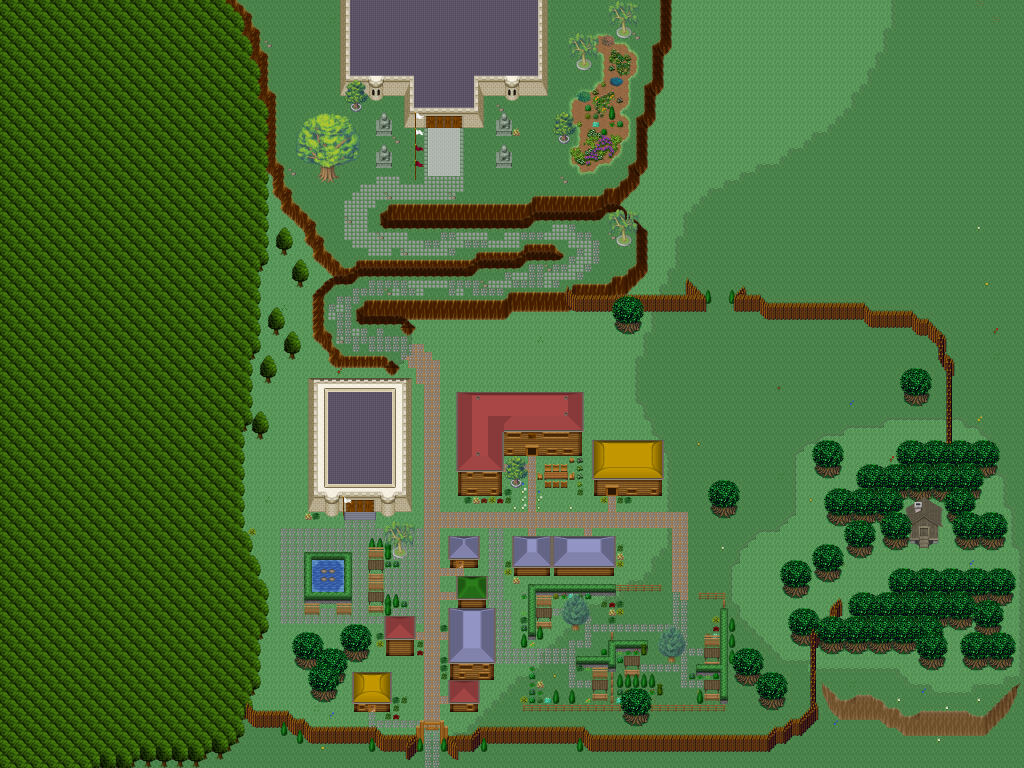
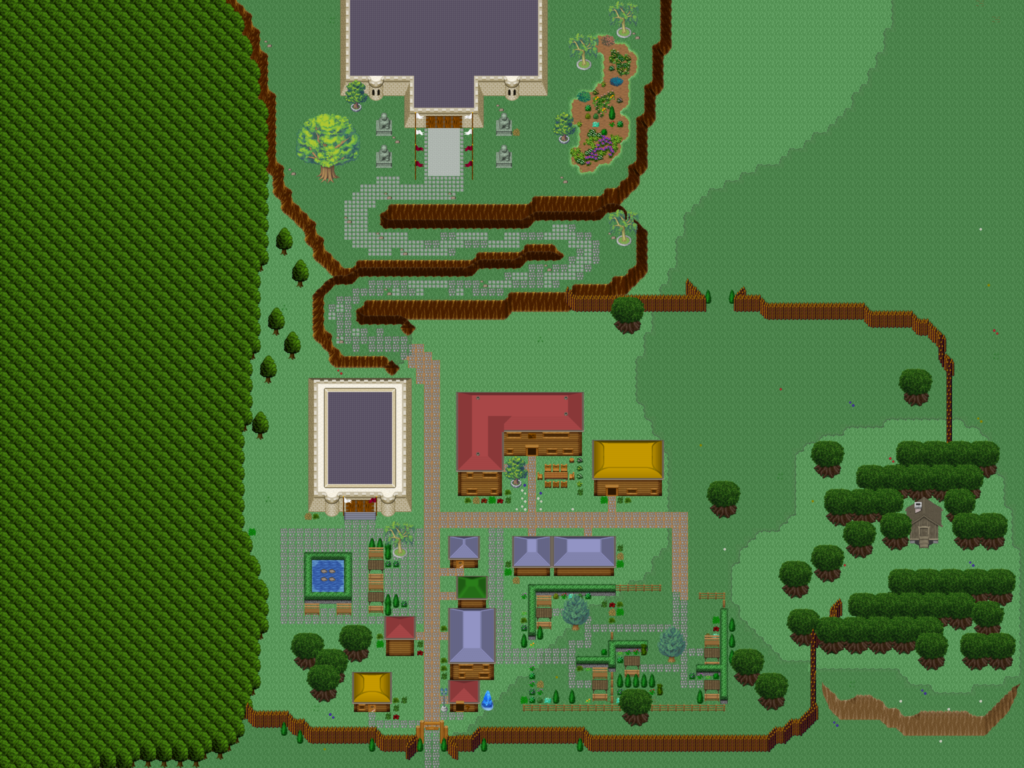
feat(tarnow): give affix transformation its own enchanter workshop

diff --git a/src/js/css/main.css b/src/js/css/main.css
@@ -2784,7 +2784,7 @@ td.number {
 	.advent-calendar-door.is-open .advent-calendar-leaf { width: 7px; }
 }
 
-/* Zoryk: one paid affix roll, with a server-owned comparison offer. */
+/* Przemir: one paid affix roll, with a server-owned comparison offer. */
 .affix-reroll-dialog {
 	box-sizing: border-box; width: 660px; max-width: calc(100vw - 32px);
 	max-height: calc(100dvh - 88px); overflow: auto; padding: 12px;
@@ -2832,7 +2832,7 @@ td.number {
 	.affix-reroll-dialog .affix-reroll-comparison { grid-template-columns: repeat(2, minmax(0, 1fr)); }
 }
 
-/* The same native-size marker is used in tooltips and Zoryk's workbench. */
+/* The same native-size marker is used in tooltips and Przemir's workbench. */
 .affix-rerolled-icon {
 	display: inline-block; width: 12px; height: 12px; margin-right: 4px;
 	vertical-align: -2px; background: url(/data/gui/affix_rerolled.png) no-repeat center;

diff --git a/src/js/stendhal/ui/dialog/affix-reroll-dialog.test.js b/src/js/stendhal/ui/dialog/affix-reroll-dialog.test.js
@@ -98,7 +98,7 @@ function choose(h) {
 test("selection distinguishes duplicate names, displays sprites/rarity/upgrades and only uses server affixes", () => {
 	const h = harness(), d = h.open();
 	assert.equal(h.frames[0].responsiveWidth, true);
-	assert.equal(h.frames[0].title, "Zoryk — przemiana afiksów");
+	assert.equal(h.frames[0].title, "Przemir — przemiana afiksów");
 	assert.equal(d.items.children[0].children[1].children[0].textContent, "miecz +2");
 	assert.equal(d.items.children[1].children[1].children[1].textContent, "Epicki · #2");
 	assert.match(d.items.children[0].children[0].style.backgroundImage, /items\/sword\/broadsword.png/);

diff --git a/src/js/stendhal/ui/dialog/AffixRerollDialog.ts b/src/js/stendhal/ui/dialog/AffixRerollDialog.ts
@@ -108,7 +108,7 @@ export class AffixRerollDialog extends DialogContentComponent {
 			seen.add(windowId);
 			this.active?.close();
 			const dialog = new AffixRerollDialog(windowId, String(data.npc_id));
-			const frame = new FloatingWindow(text("Zoryk — przemiana afiksów"), dialog, 24, 24);
+			const frame = new FloatingWindow(text("Przemir — przemiana afiksów"), dialog, 24, 24);
 			frame.setResponsiveWidth(true);
 			frame.setId("affix-reroll");
 			dialog.setFrame(frame);

diff --git a/tests/games/stendhal/server/actions/AffixRerollActionTest.java b/tests/games/stendhal/server/actions/AffixRerollActionTest.java
@@ -32,6 +32,7 @@ import games.stendhal.server.events.AffixRerollEvent;
 import games.stendhal.server.events.ItemUpgradeEvent;
 import games.stendhal.server.maps.MockStendlRPWorld;
 import games.stendhal.server.maps.tarnow.city.RuneMasterNPC;
+import games.stendhal.server.maps.tarnow.enchanter.EnchanterNPC;
 import marauroa.common.game.DetailLevel;
 import marauroa.common.game.RPAction;
 import marauroa.common.game.RPClass;
@@ -55,13 +56,13 @@ public class AffixRerollActionTest {
 	}
 
 	@Before public void setup() {
-		SingletonRepository.getNPCList().remove("Zoryk Runiczny");
+		SingletonRepository.getNPCList().remove(EnchanterNPC.NAME);
 		final StendhalRPZone zone = new StendhalRPZone("reroll_action_test", 128, 128);
 		MockStendlRPWorld.get().addRPZone(zone);
-		new RuneMasterNPC().configureZone(zone, Collections.emptyMap());
-		npc = SingletonRepository.getNPCList().get("Zoryk Runiczny");
-		player = PlayerTestHelper.createPlayer("zoryk_customer"); player.setLanguage("pl");
-		player.setPosition(60, 17); zone.add(player);
+		new EnchanterNPC().configureZone(zone, Collections.emptyMap());
+		npc = SingletonRepository.getNPCList().get(EnchanterNPC.NAME);
+		player = PlayerTestHelper.createPlayer("przemir_customer"); player.setLanguage("pl");
+		player.setPosition(8, 7); zone.add(player);
 		item = SingletonRepository.getEntityManager().getItem("ciupaga"); item.setRarity(ItemRarity.RARE);
 		final ItemAffixDefinition affix = ItemAffixRegistry.getInstance().get("accuracy_bonus");
 		assertTrue(affix.apply(item, new Random(4))); ItemAffixState.record(item, affix);
@@ -70,12 +71,15 @@ public class AffixRerollActionTest {
 		stone.setQuantity(2); assertTrue(player.equipToInventoryOnly(stone));
 	}
 
-	@After public void cleanup() { SingletonRepository.getNPCList().remove("Zoryk Runiczny"); }
+	@After public void cleanup() {
+		SingletonRepository.getNPCList().remove(EnchanterNPC.NAME);
+		SingletonRepository.getNPCList().remove("Zoryk Runiczny");
+	}
 
 	private RPEvent latest() {
 		RPEvent result = null;
 		for (final RPEvent event : player.events()) if (Events.AFFIX_REROLL.equals(event.getName())) result = event;
-		assertNotNull("Zoryk must send a calendar-independent service event", result);
+		assertNotNull("Przemir must send a calendar-independent service event", result);
 		return result;
 	}
 
@@ -94,13 +98,42 @@ public class AffixRerollActionTest {
 		return latest();
 	}
 
-	@Test public void zorykUnderstandsTheVisibleDialogueKeywordAndItsInflection() {
-		for (final String keyword : new String[] {"przemiana", "przemianę"}) {
-			npc.getEngine().stepTest(player, "hi"); npc.getEngine().stepTest(player, keyword);
+	@Test public void glyphMasterCannotOpenTheAffixService() {
+		final StendhalRPZone zone = player.getZone();
+		SingletonRepository.getNPCList().remove("Zoryk Runiczny");
+		new RuneMasterNPC().configureZone(zone, Collections.emptyMap());
+		final SpeakerNPC glyphMaster = SingletonRepository.getNPCList().get("Zoryk Runiczny");
+		player.setPosition(60, 17);
+		int before = 0;
+		for (final RPEvent event : player.events()) if (Events.AFFIX_REROLL.equals(event.getName())) before++;
+		AffixRerollAction.open(player, glyphMaster);
+		glyphMaster.getEngine().stepTest(player, "hi"); utilities.SpeakerNPCTestHelper.getReply(glyphMaster);
+		glyphMaster.getEngine().stepTest(player, "przemiana");
+		assertTrue(utilities.SpeakerNPCTestHelper.getReply(glyphMaster).contains("Przemir Zaklinacz"));
+		int after = 0;
+		for (final RPEvent event : player.events()) if (Events.AFFIX_REROLL.equals(event.getName())) after++;
+		assertEquals(before, after);
+	}
+
+	@Test public void przemirUnderstandsTheVisibleDialogueKeywordAndItsInflection() {
+		for (final String[] choice : new String[][] {{"pl", "przemiana"}, {"pl", "przemianę"}, {"en", "transformation"}, {"es", "transformación"}}) {
+			player.setLanguage(choice[0]);
+			npc.getEngine().stepTest(player, "hi"); npc.getEngine().stepTest(player, choice[1]);
 			assertEquals("open", latest().get("phase"));
 			assertEquals(npc.getID().getObjectID(), latest().getInt("npc_id"));
 			npc.getEngine().stepTest(player, "bye");
 		}
+	}
+
+	@Test public void enchanterExplainsPaymentAndThePermanentChoiceInPlainLanguage() {
+		npc.getEngine().stepTest(player, "hi"); utilities.SpeakerNPCTestHelper.getReply(npc);
+		npc.getEngine().stepTest(player, "kamień");
+		final String stones = utilities.SpeakerNPCTestHelper.getReply(npc);
+		assertTrue(stones, stones.contains("jeden kamień") && stones.contains("za trzy"));
+		npc.getEngine().stepTest(player, "zasady");
+		final String rules = utilities.SpeakerNPCTestHelper.getReply(npc);
+		assertTrue(rules, rules.contains("tylko ta jedna właściwość"));
+		assertTrue(rules, rules.contains("kamienie przepadną w obu przypadkach"));
 	}
 
 	@Test public void legendaryQuotesAndOffersPublishTheThreeStonePrice() {

diff --git a/src/games/stendhal/server/maps/tarnow/enchanter/EnchanterNPC.java b/src/games/stendhal/server/maps/tarnow/enchanter/EnchanterNPC.java
@@ -1,0 +1,52 @@
+/* Copyright (C) 2026 - PolanieOnLine; GPL version 2 or later. */
+package games.stendhal.server.maps.tarnow.enchanter;
+
+import java.util.Arrays;
+import java.util.Map;
+
+import games.stendhal.common.Direction;
+import games.stendhal.server.actions.AffixRerollAction;
+import games.stendhal.server.core.config.ZoneConfigurator;
+import games.stendhal.server.core.engine.StendhalRPZone;
+import games.stendhal.server.entity.npc.ConversationStates;
+import games.stendhal.server.entity.npc.SpeakerNPC;
+
+/** Przemir's craft is changing equipment affixes, separate from Zoryk's glyphs. */
+public final class EnchanterNPC implements ZoneConfigurator {
+	public static final String NAME = "Przemir Zaklinacz";
+	public static final String ZONE = "int_tarnow_enchanter_workshop";
+	public static final int X = 8;
+	public static final int Y = 5;
+
+	@Override
+	public void configureZone(final StendhalRPZone zone, final Map<String, String> attributes) {
+		final SpeakerNPC npc = new SpeakerNPC(NAME) {
+			@Override
+			protected void createDialog() {
+				addGreeting("Witaj w mojej pracowni. Szukasz innej mocy dla swojego wyposażenia? Zapytaj o #przemianę.");
+				addJob("Jestem zaklinaczem. Odkrywam moc ukrytą w broni, pancerzach i ozdobach. Kamienie przemiany pozwalają mi nadać jednej z ich właściwości nową postać.");
+				addHelp("Przynieś wyposażenie z magicznymi właściwościami i kamienie przemiany. Powiedz #przemiana, a wspólnie obejrzymy, co można zmienić. Jeśli robisz to po raz pierwszy, zapytaj o #zasady.");
+				addOffer("Mogę przeprowadzić #przemianę jednej właściwości twojego wyposażenia. Zwykły afiks wymaga jednego kamienia przemiany, a legendarny trzech. Przed próbą możesz poznać #zasady.");
+				addGoodbye("Niech twój oręż dobrze ci służy.");
+				add(ConversationStates.ATTENDING, Arrays.asList("przemiana", "przemianę", "przemiane", "przemianą", "zmiana afiksu", "afiks", "afiksy", "affix", "reroll", "transformation", "transformación"),
+						null, ConversationStates.ATTENDING, null,
+						(player, sentence, raiser) -> AffixRerollAction.open(player, this));
+				add(ConversationStates.ATTENDING, Arrays.asList("zasady", "zasadach", "rules", "reglas"),
+						null, ConversationStates.ATTENDING,
+						"Najpierw wskażesz przedmiot i właściwość, którą chcesz zmienić. Potem zużyję kamienie, by wydobyć nową moc. Możesz ją przyjąć albo zachować dotychczasową, ale kamienie przepadną w obu przypadkach. Od pierwszej próby tylko ta jedna właściwość będzie mogła podlegać dalszym przemianom. Reszta pozostanie taka jak wcześniej.", null);
+				add(ConversationStates.ATTENDING, Arrays.asList("kamienie", "kamień", "kamien", "stones", "piedras"),
+						null, ConversationStates.ATTENDING,
+						"Kamienie przemiany bywają nagrodą podczas szczególnych wydarzeń w naszej krainie. Zwykły afiks zmienię za jeden kamień, a legendarny za trzy. Nawet jeśli zachowasz dawną moc, kamienie zostaną zużyte.", null);
+				add(ConversationStates.ATTENDING, Arrays.asList("glif", "glify", "glyph", "glyphs", "glifos"),
+						null, ConversationStates.ATTENDING,
+						"O glifach najlepiej porozmawiać z Zorykiem Runicznym. Znajdziesz go przy północnej świątyni w Tarnowie, obok stołu runicznego.", null);
+			}
+		};
+		npc.setDescription("Oto Przemir Zaklinacz. Ogląda oręż pod światło, jakby szukał w nim czegoś ukrytego.");
+		npc.setEntityClass("wizardnpc");
+		npc.setGender("M");
+		npc.setPosition(X, Y);
+		npc.setDirection(Direction.DOWN);
+		zone.add(npc);
+	}
+}

diff --git a/tests/games/stendhal/server/maps/tarnow/enchanter/EnchanterWorkshopTest.java b/tests/games/stendhal/server/maps/tarnow/enchanter/EnchanterWorkshopTest.java
@@ -1,0 +1,57 @@
+/* Copyright (C) 2026 - PolanieOnLine; GPL version 2 or later. */
+package games.stendhal.server.maps.tarnow.enchanter;
+
+import static org.junit.Assert.*;
+import java.util.Collections;
+import javax.xml.parsers.DocumentBuilderFactory;
+import org.junit.*;
+import org.w3c.dom.*;
+import games.stendhal.server.core.config.zone.TMXLoader;
+import games.stendhal.server.core.config.zone.PortalSetupXMLReader;
+import games.stendhal.server.core.engine.StendhalRPZone;
+import games.stendhal.server.core.engine.SingletonRepository;
+import games.stendhal.server.entity.mapstuff.portal.Portal;
+import games.stendhal.server.entity.player.Player;
+import games.stendhal.server.maps.MockStendlRPWorld;
+import utilities.PlayerTestHelper;
+import utilities.QuestHelper;
+
+/** Loads the real maps and portal descriptors through the game engine. */
+public class EnchanterWorkshopTest {
+	@BeforeClass public static void initialize() throws Exception { QuestHelper.setUpBeforeClass(); }
+
+	@Test public void configuredDoorAllowsEnteringAndLeavingWithoutLandingOnAPortal() throws Exception {
+		final StendhalRPZone city = load("0_tarnow_city", "data/maps/Level 0/tarnow/city.tmx");
+		final StendhalRPZone room = load(EnchanterNPC.ZONE, "data/maps/interiors/tarnow/enchanter_workshop.tmx");
+		final DocumentBuilderFactory factory = DocumentBuilderFactory.newInstance(); factory.setNamespaceAware(true);
+		final NodeList portals = factory.newDocumentBuilder().parse(getClass().getResourceAsStream("/data/conf/zones/pol/tarnow.xml")).getElementsByTagNameNS("*", "portal");
+		for (int i = 0; i < portals.getLength(); i++) {
+			final Element element = (Element) portals.item(i);
+			if ("enchanter_workshop_entrance".equals(element.getAttribute("ref"))) new PortalSetupXMLReader().read(element).setup(city);
+			if ("enchanter_workshop_exit".equals(element.getAttribute("ref"))) new PortalSetupXMLReader().read(element).setup(room);
+		}
+		SingletonRepository.getNPCList().remove(EnchanterNPC.NAME);
+		new EnchanterNPC().configureZone(room, Collections.emptyMap());
+		final Player player = PlayerTestHelper.createPlayer("workshop_visitor"); city.add(player); player.setPosition(57, 89);
+		final Portal entrance = city.getPortal("enchanter_workshop_entrance");
+		final Portal exit = room.getPortal("enchanter_workshop_exit");
+		assertNotNull(entrance); assertNotNull(exit);
+		assertTrue(entrance.onUsed(player)); assertSame(room, player.getZone());
+		assertEquals(8, player.getX()); assertEquals(11, player.getY());
+		assertTrue(exit.onUsed(player)); assertSame(city, player.getZone());
+		assertEquals(57, player.getX()); assertEquals(89, player.getY());
+		SingletonRepository.getNPCList().remove(EnchanterNPC.NAME);
+	}
+
+	@Test public void minimapUsesTheWorkshopName() {
+		final StendhalRPZone zone = new StendhalRPZone(EnchanterNPC.ZONE);
+		assertEquals("Pracownia Przemira w Tarnowie", zone.getAttributes().get("readable_name"));
+	}
+
+	private StendhalRPZone load(final String id, final String map) throws Exception {
+		final StendhalRPZone zone = new StendhalRPZone(id);
+		zone.addCollisionLayer(id + ".collision", TMXLoader.load(map).getLayer("collision"));
+		MockStendlRPWorld.get().addRPZone(zone);
+		return zone;
+	}
+}

diff --git a/src/games/stendhal/server/maps/tarnow/city/RuneMasterNPC.java b/src/games/stendhal/server/maps/tarnow/city/RuneMasterNPC.java
@@ -43,7 +43,6 @@ import games.stendhal.server.entity.npc.condition.NotCondition;
 import games.stendhal.server.entity.npc.condition.QuestInStateCondition;
 import games.stendhal.server.entity.npc.condition.QuestNotInStateCondition;
 import games.stendhal.server.entity.player.Player;
-import games.stendhal.server.actions.AffixRerollAction;
 
 /**
  * @author KarajuSs
@@ -83,13 +82,13 @@ public class RuneMasterNPC implements ZoneConfigurator {
 			protected void createDialog() {
 				add(ConversationStates.ATTENDING, Arrays.asList("przemiana", "przemianę", "przemiane", "kamień przemiany", "kamien przemiany", "zmiana afiksu", "affix", "reroll", "transformation", "transformación"),
 						null, ConversationStates.ATTENDING, null,
-						(player, sentence, raiser) -> AffixRerollAction.open(player, this));
+						(player, sentence, raiser) -> raiser.say(text(player, "Przemianą właściwości wyposażenia zajmuje się Przemir Zaklinacz. Ma pracownię w małym domu z czerwonym dachem na południu Tarnowa. Szukaj szyldu i niebieskich kryształów przy wejściu.")));
                 add(ConversationStates.ATTENDING, Arrays.asList("ulepsz", "ulepszenie", "ulepszanie", "upgrade", "mejorar", "stół", "stół runiczny", "stole runicznym", "runic workbench", "mesa rúnica"),
                         null, ConversationStates.ATTENDING, null, (player, sentence, raiser) ->
                         raiser.say(text(player, "Podejdź do stołu runicznego obok mnie i kliknij go. W oknie wybierzesz glif, zobaczysz zmianę jego mocy oraz koszt ulepszenia.")));
 				addGreeting("Witaj, poszukiwaczu starożytnej mocy! Czy szukasz tajemnicy run?");
 				addJob("Jestem strażnikiem starożytnej sztuki runicznej. Potrafię nasycać odzyskane matryce glifów nową mocą. Omar, pustynny poszukiwacz reliktów, bada miejsca, w których zachowały się takie nośniki. Możesz zapytać mnie o #listę glifów.");
-				addOffer("Jeżeli przyniesiesz czysty fragment glifu, czyli nośnik odtworzony z dawnej matrycy, oraz odpowiednie składniki, mogę nadać mu nowy znak. Zapytaj o #listę glifów, aby zobaczyć, jakie znam wzory. Gotowe glify rozwiniesz przy #'stole runicznym' obok mnie. Jeśli masz kamień przemiany, zapytaj o #przemianę — pomogę ci zmienić jeden afiks wyposażenia.");
+				addOffer("Jeżeli przyniesiesz czysty fragment glifu, czyli nośnik odtworzony z dawnej matrycy, oraz odpowiednie składniki, mogę nadać mu nowy znak. Zapytaj o #listę glifów, aby zobaczyć, jakie znam wzory. Gotowe glify rozwiniesz przy #'stole runicznym' obok mnie.");
 				addGoodbye("Powodzenia w zdobywaniu glifów, młody poszukiwaczu mocy!");
 
 				String allGlyphNames = glyphManager.getAllGlyphs().stream()

diff --git a/src/games/stendhal/server/actions/AffixRerollAction.java b/src/games/stendhal/server/actions/AffixRerollAction.java
@@ -14,9 +14,10 @@ import games.stendhal.server.entity.npc.SpeakerNPC;
 import games.stendhal.server.entity.player.Player;
 import games.stendhal.server.events.AffixRerollEvent;
 import games.stendhal.server.util.EntityHelper;
+import games.stendhal.server.maps.tarnow.enchanter.EnchanterNPC;
 import marauroa.common.game.RPAction;
 
-/** Correlates requests with the exact Zoryk instance which opened the window. */
+/** Correlates requests with the exact enchanter instance which opened the window. */
 public final class AffixRerollAction implements ActionListener {
 	private static final ItemAffixRerollService SERVICE = ItemAffixRerollService.getInstance();
 	private static final Map<Player, Window> WINDOWS = new WeakHashMap<Player, Window>();
@@ -24,7 +25,7 @@ public final class AffixRerollAction implements ActionListener {
 	public static void register() { CommandCenter.register("affix_reroll_action", new AffixRerollAction()); }
 
 	public static void open(final Player player, final SpeakerNPC npc) {
-		if (npc != NPCList.get().get("Zoryk Runiczny") || !near(player, npc)) return;
+		if (npc != NPCList.get().get(EnchanterNPC.NAME) || !near(player, npc)) return;
 		final Window window = new Window(npc);
 		WINDOWS.put(player, window);
 		SERVICE.clearSelection(player);
@@ -84,7 +85,7 @@ public final class AffixRerollAction implements ActionListener {
 	}
 
 	private static boolean resolve(final Player player, final RPAction action, final Window window) {
-		if (!near(player, window.npc) || window.npc != NPCList.get().get("Zoryk Runiczny")) return false;
+		if (!near(player, window.npc) || window.npc != NPCList.get().get(EnchanterNPC.NAME)) return false;
 		try {
 			final Entity entity = EntityHelper.entityFromZoneByID(action.getInt("npc_id"), player.getZone());
 			return entity == window.npc;

diff --git a/src/games/stendhal/client/gui/AffixRerollDialog.java b/src/games/stendhal/client/gui/AffixRerollDialog.java
@@ -40,7 +40,7 @@ import marauroa.common.game.RPAction;
 import marauroa.common.game.RPEvent;
 import marauroa.common.game.RPObject;
 
-/** Modeless Zoryk service. Only server-authorized items and affixes can be selected. */
+/** Modeless affix transformation service. Only server-authorized items and affixes can be selected. */
 public final class AffixRerollDialog extends JDialog {
 	private static final long serialVersionUID = 1L;
 	private static final Set<String> openedWindows = new HashSet<>();
@@ -75,7 +75,7 @@ public final class AffixRerollDialog extends JDialog {
 	private long sentAt;
 
 	private AffixRerollDialog(final Frame parent, final RPObject owner, final RPEvent event) {
-		super(parent, text("Zoryk — przemiana afiksów"), false);
+		super(parent, text("Przemir — przemiana afiksów"), false);
 		this.owner = owner;
 		correlation = new Correlation(value(event, "window_id"), value(event, "npc_id"));
 		setDefaultCloseOperation(DISPOSE_ON_CLOSE);

diff --git a/src/games/stendhal/server/events/AffixRerollEvent.java b/src/games/stendhal/server/events/AffixRerollEvent.java
@@ -98,7 +98,7 @@ public final class AffixRerollEvent extends RPEvent {
 		case "ACCEPTED": return "Przyjęto nową właściwość.";
 		case "KEPT": return "Zachowano poprzednią właściwość.";
 		case "MISSING_STONE": return "Nie masz dość kamieni przemiany. Zwykły afiks wymaga 1, a legendarny 3 kamieni.";
-		case "NPC_TOO_FAR": return "Podejdź do Zoryka Runicznego.";
+		case "NPC_TOO_FAR": return "Podejdź do Przemira Zaklinacza.";
 		case "CHANGED_ITEM": return "Przedmiot został przeniesiony lub zmieniony. Możesz tylko zachować poprzednią właściwość.";
 		case "INVALID_ITEM": return "Wybierz własny przedmiot z losowymi właściwościami.";
 		case "INVALID_REQUEST": return "Wybór wygasł. Wybierz przedmiot i właściwość ponownie.";

diff --git a/tests/games/stendhal/server/util/ZoneDisplayNameFormatterTest.java b/tests/games/stendhal/server/util/ZoneDisplayNameFormatterTest.java
@@ -20,6 +20,11 @@ import games.stendhal.server.core.engine.StendhalRPZone;
 
 public class ZoneDisplayNameFormatterTest {
 
+	@Test public void namesPrzemirsWorkshopWithoutTechnicalTokens() {
+		assertThat(ZoneDisplayNameFormatter.formatTechnicalName("int_tarnow_enchanter_workshop"),
+				equalTo("Pracownia Przemira w Tarnowie"));
+	}
+
 	@Test
 	public void formatsSimpleWorldDirectionAfterLocationName() {
 		assertThat(ZoneDisplayNameFormatter.formatTechnicalName("0_semos_plains_n"),

diff --git a/src/games/stendhal/server/core/engine/StendhalRPZone.java b/src/games/stendhal/server/core/engine/StendhalRPZone.java
@@ -2030,6 +2030,9 @@ public class StendhalRPZone extends MarauroaRPZone {
 	 * @return human readable zone name
 	 */
 	private String createReadableName(String zoneName) {
+		if ("int_tarnow_enchanter_workshop".equals(zoneName)) {
+			return "Pracownia Przemira w Tarnowie";
+		}
 		StringBuilder result = new StringBuilder();
 		final Matcher m = ZONE_NAME_PATTERN.matcher(zoneName);
 		if (m.matches()) {
